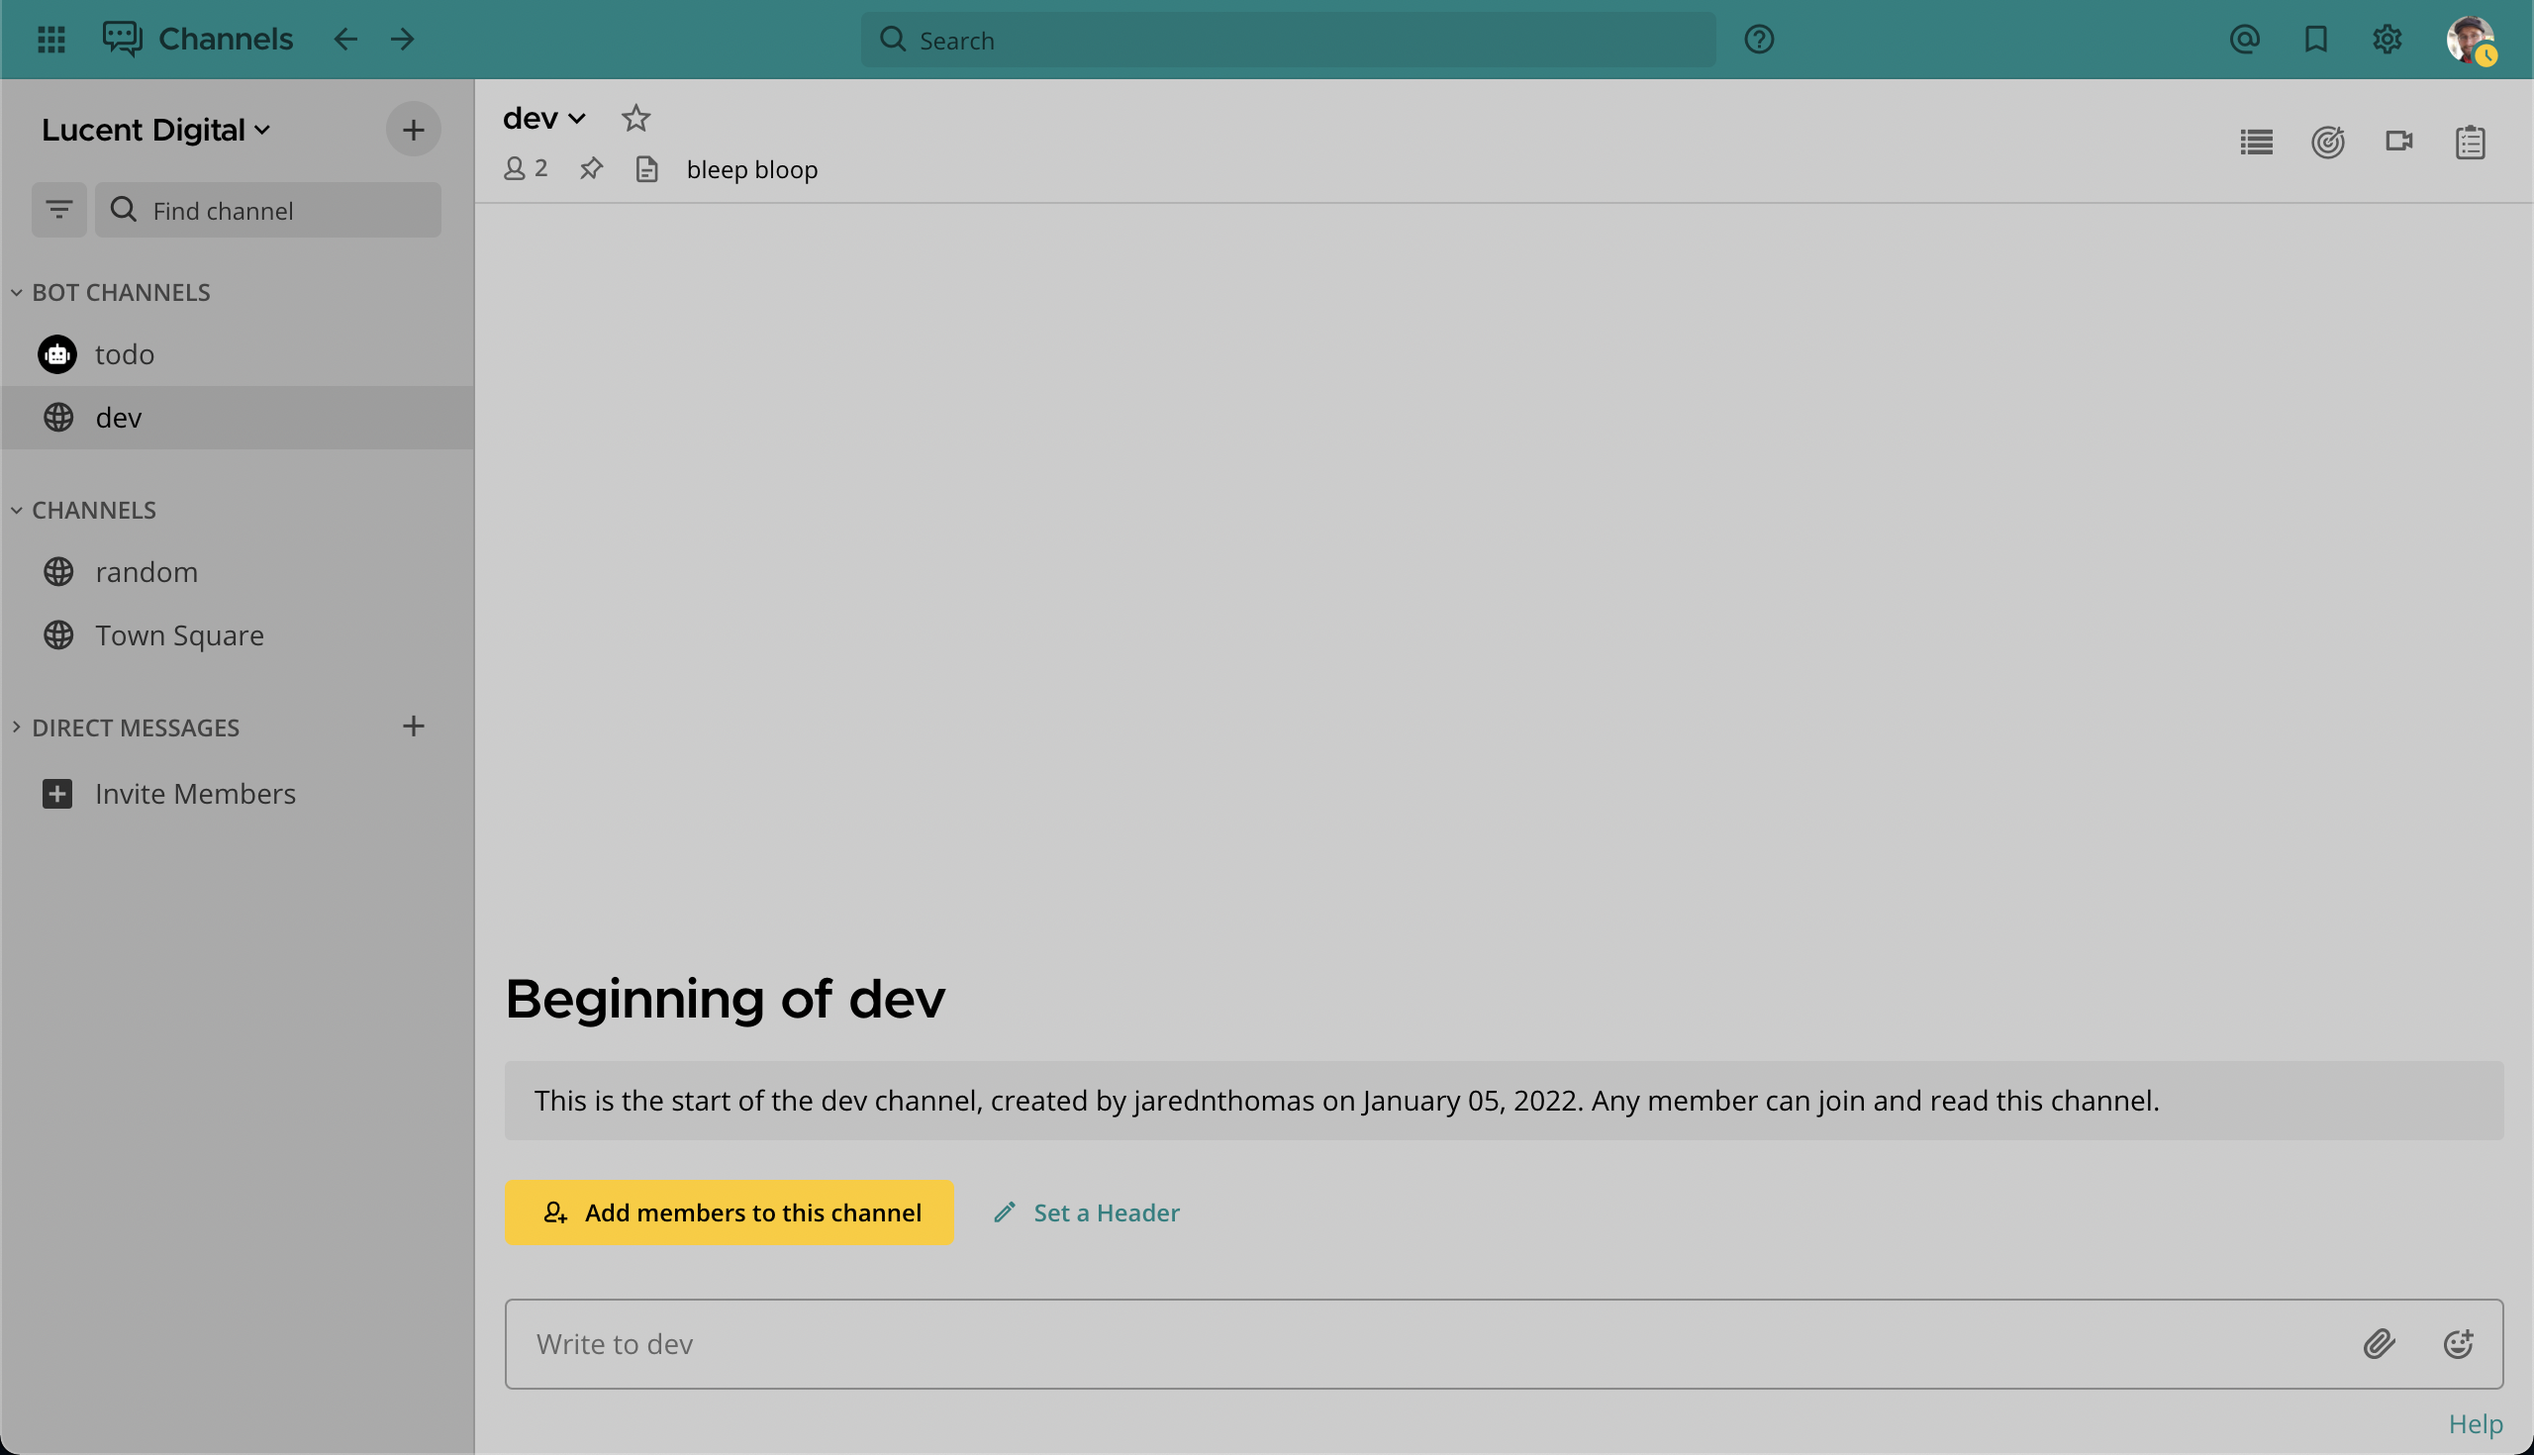
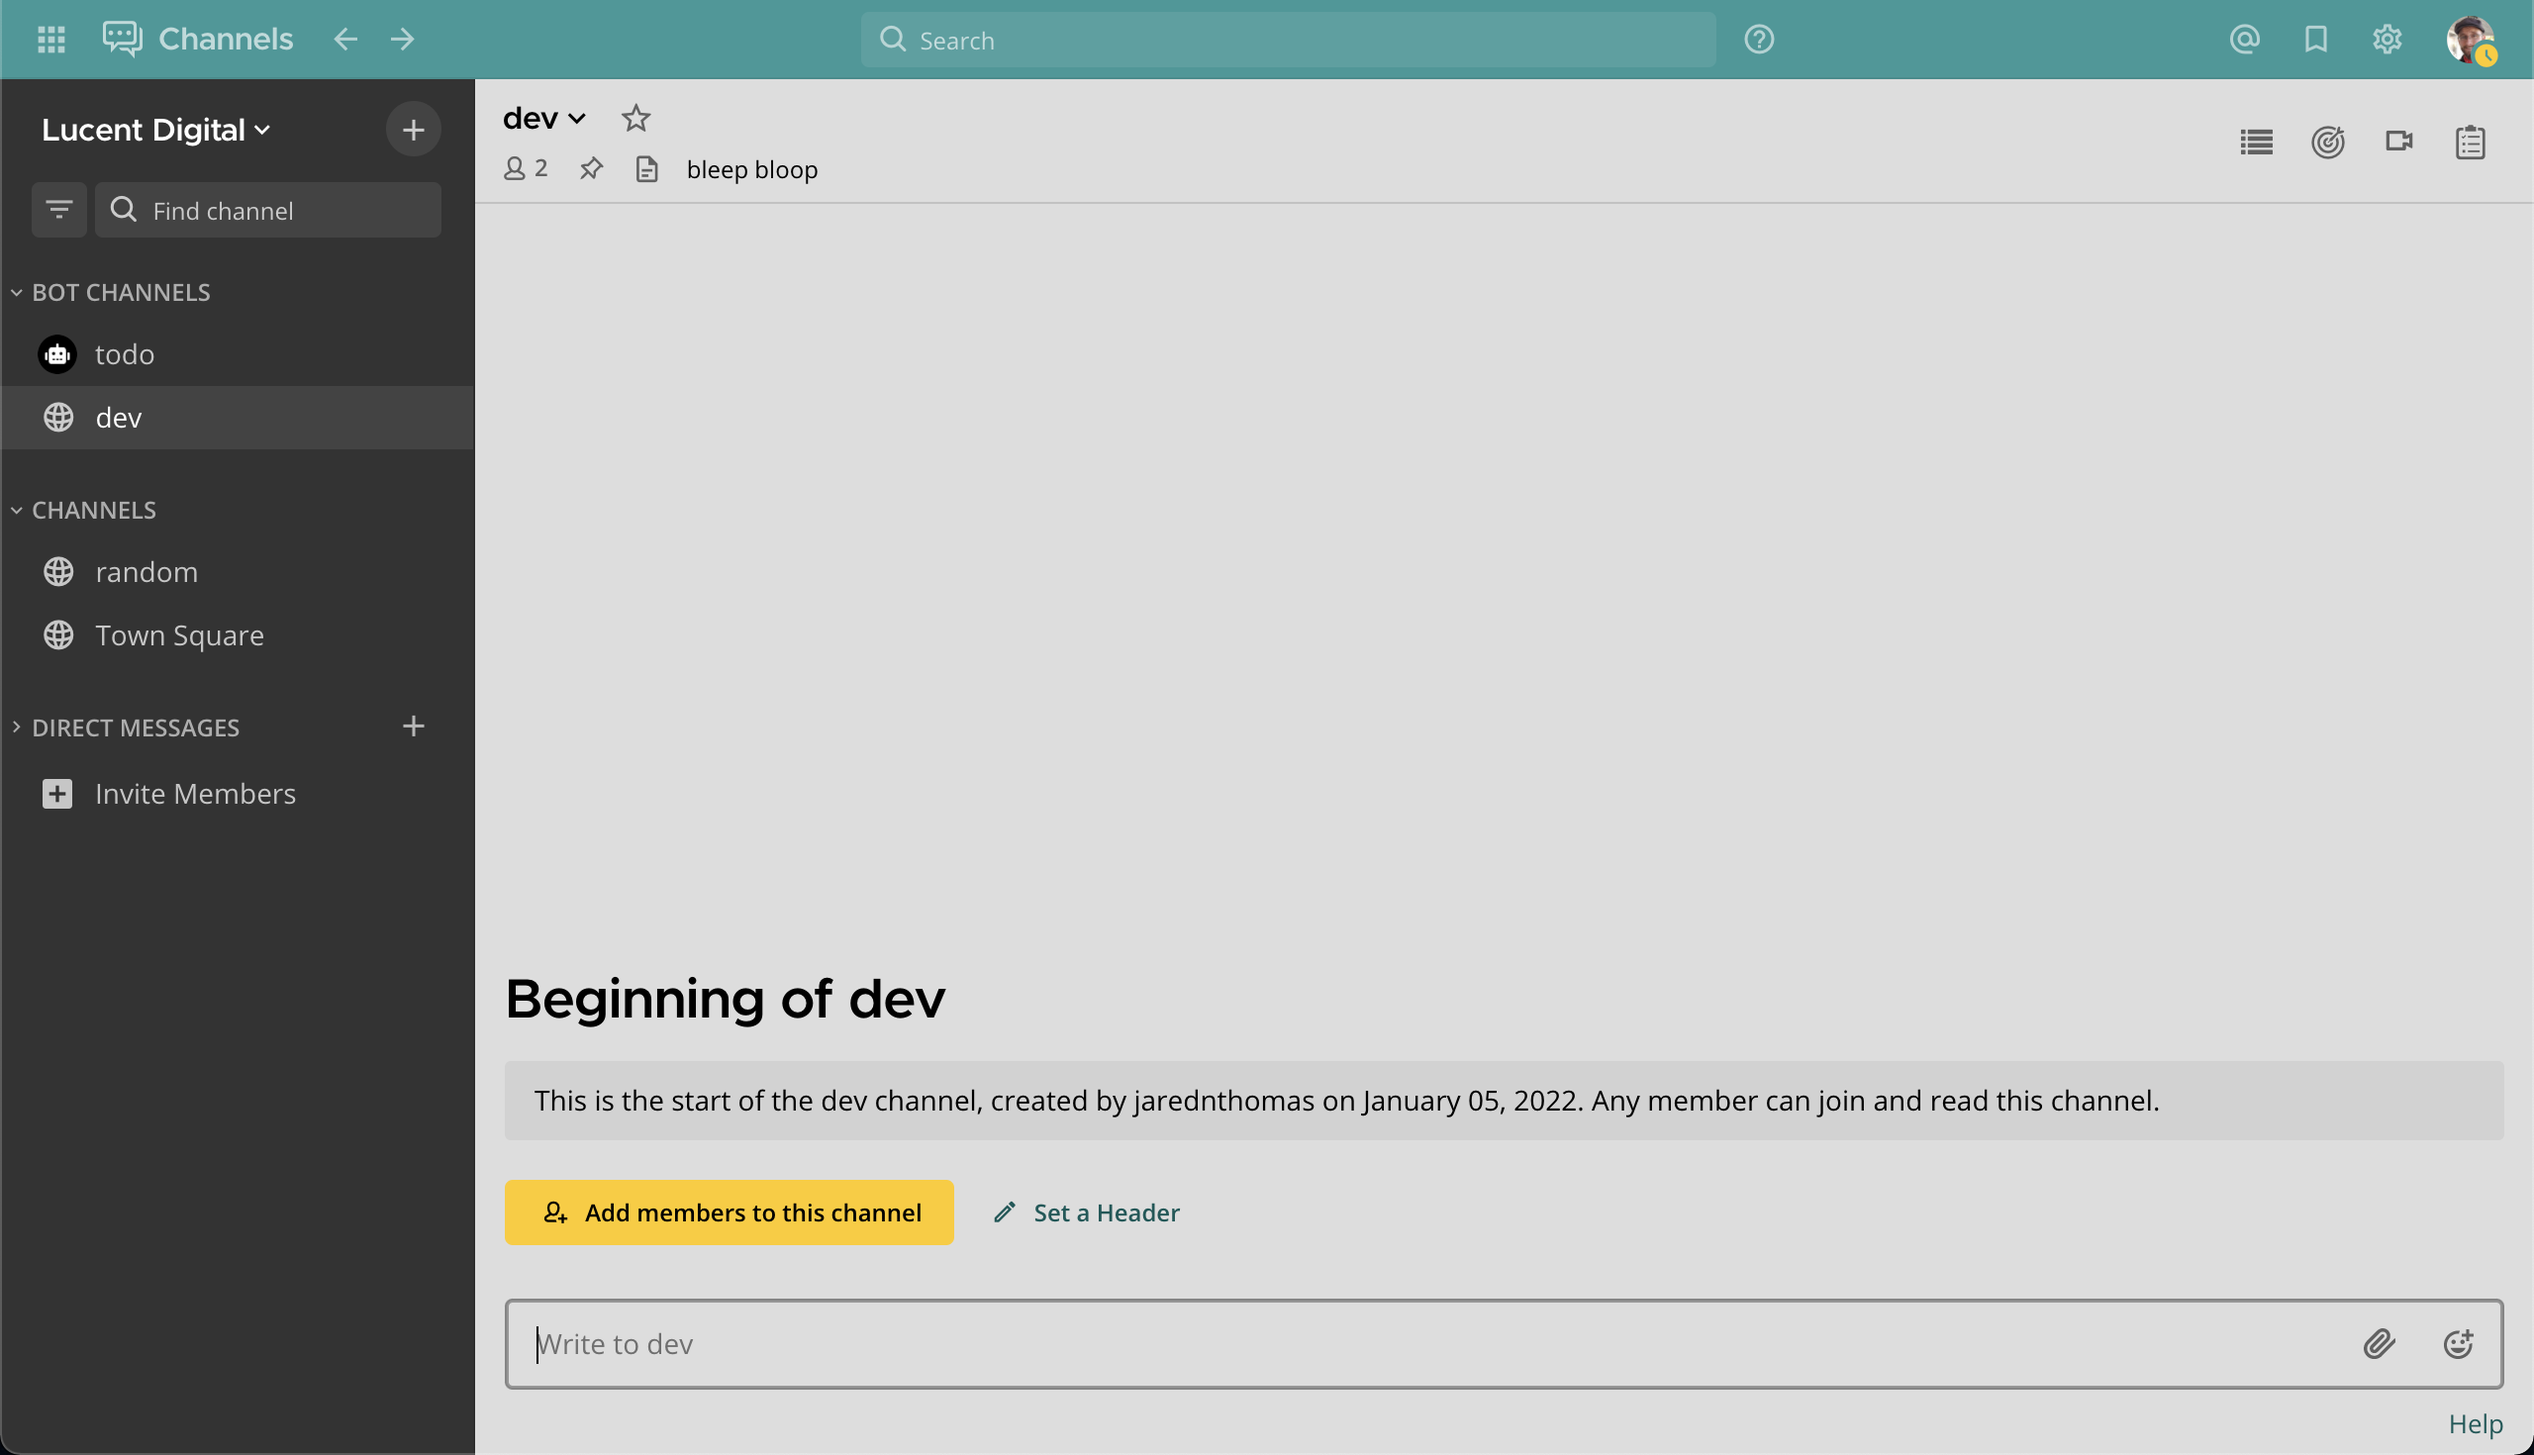
+contrast to lucent

Changed region(s): [[0.0, 0.0, 1.0, 1.0], [0.4375, 0.8265, 0.4688, 0.8571]]

diff --git a/README.md b/README.md
@@ -116,32 +116,31 @@
 
 ```
 {"codeTheme":"lucent",
-"centerChannelBg":"#cccccc",
+"centerChannelBg":"#dddddd",
 "centerChannelColor":"#000000",
-"sidebarBg":"#aaaaaa",
-"sidebarText":"#000000",
-"sidebarTextHoverBg":"#999999",
+"sidebarBg":"#333333",
+"sidebarText":"#ffffff",
+"sidebarTextHoverBg":"#bbbbbb",
 "sidebarUnreadText":"#ffffff",
-"sidebarTeamBarBg":"#008080",
-"sidebarHeaderBg":"#008080",
-"sidebarHeaderTextColor":"#000000",
+"sidebarTeamBarBg":"#329999",
+"sidebarHeaderBg":"#329999",
+"sidebarHeaderTextColor":"#ffffff",
 "sidebarTextActiveBorder":"#1bba56",
 "sidebarTextActiveColor":"#1bba56",
-"mentionBg":"#FFCA05",
+"mentionBg":"#008080",
 "mentionBj":"#008080",
 "mentionColor":"#ffffff",
-"mentionHighlightBg":"#008080",
-"mentionHighlightLink":"#ffffff",
+"mentionHighlightBg":"#FFCA05",
+"mentionHighlightLink":"#000000",
 "buttonBg":"#FFCA05",
 "buttonColor":"#000000",
-"newMessageSeparator":"#717171",
+"newMessageSeparator":"#aaaaaa",
 "onlineIndicator":"#1bba56",
 "awayIndicator":"#FFCA04",
 "dndIndicator":"#fc3d03",
-"linkColor":"#008080",
+"linkColor":"#005959",
 "errorTextColor":"#f74344"}
 ```
-
 
 ---
 
